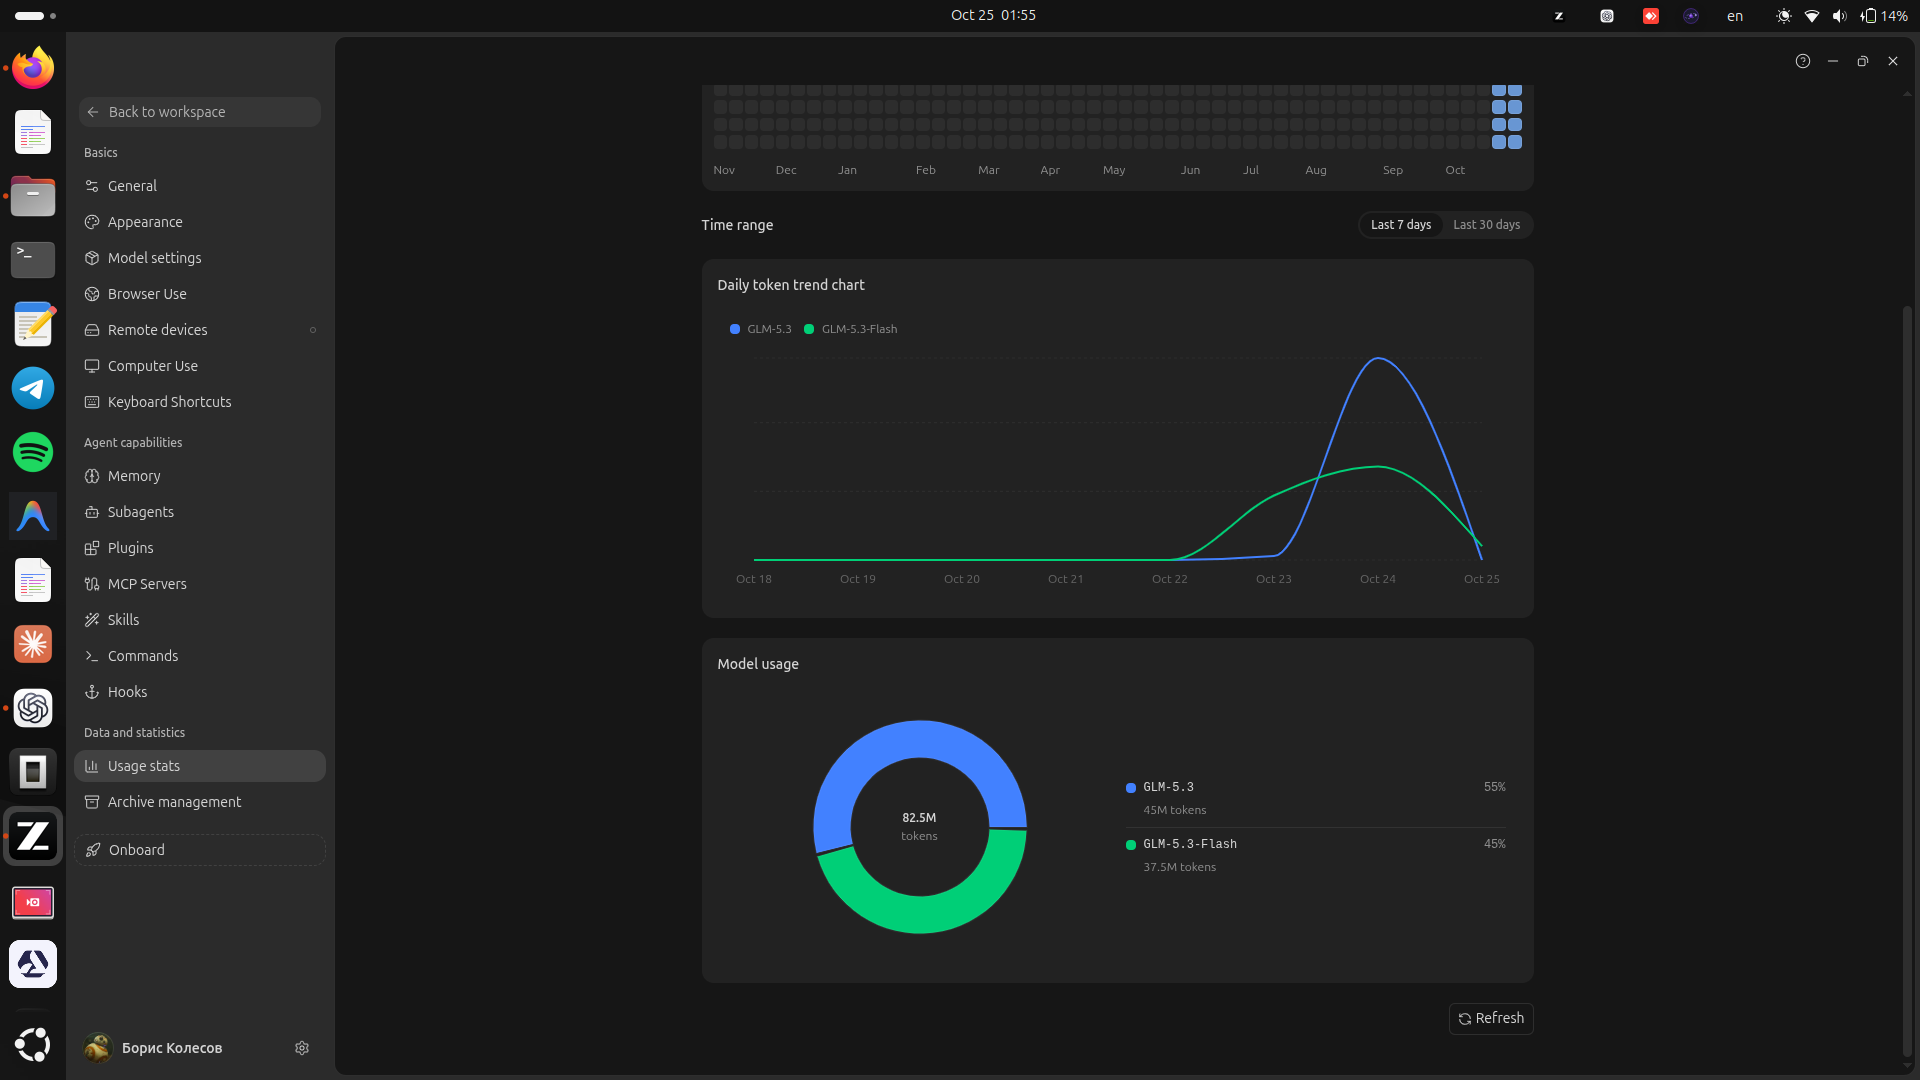
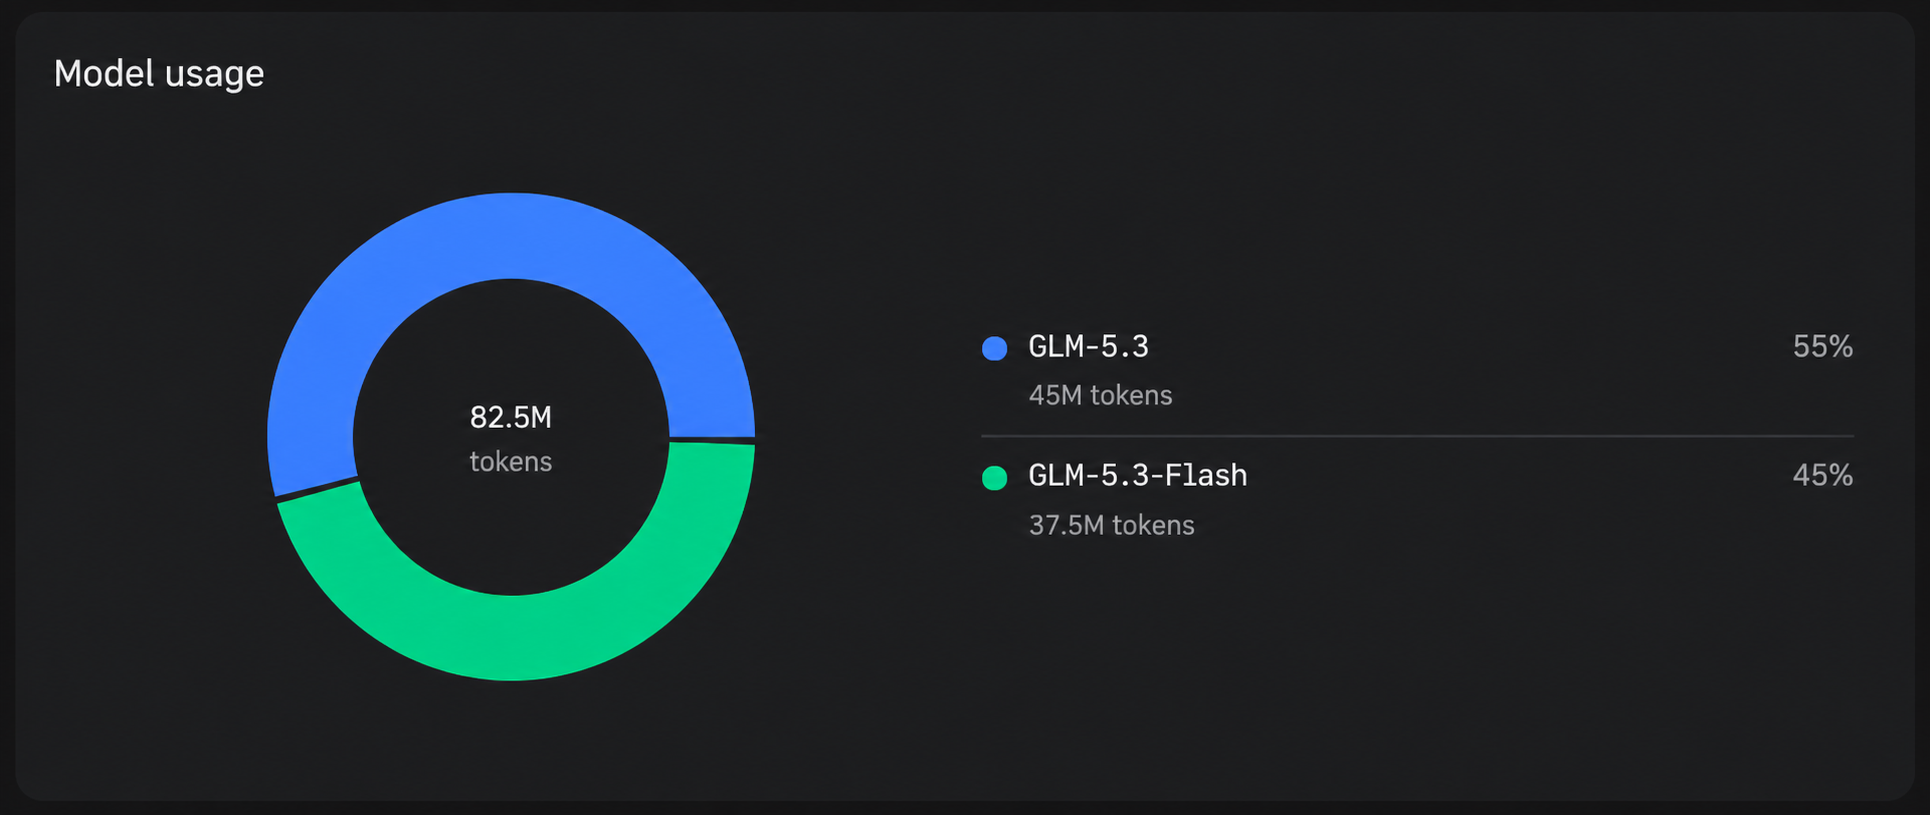
Update GLM token usage screenshot

diff --git a/app.js b/app.js
@@ -94,7 +94,7 @@
     }else if(kind==='parts')graphics.innerHTML=`<div class="parts-control">${parts.map((p,i)=>button(p[0],'part',i,i===state.partIndex)).join('')}</div><div class="parts-label"><b>${parts[state.partIndex][0]}</b><br>${parts[state.partIndex][1]}</div>`;
     else if(kind==='sandbox')graphics.innerHTML=`<div class="sandbox-controls"><label for="slope">Условный уклон <span id="slope-label">${state.sandboxSlope}°</span></label><input id="slope" type="range" min="0" max="20" value="${state.sandboxSlope}" step="1" data-slider="slope"><label for="load">Условная загрузка <span id="load-label">${state.sandboxLoad}%</span></label><input id="load" type="range" min="0" max="100" value="${state.sandboxLoad}" step="5" data-slider="load"><div class="panel-action">${button(state.sandboxObstacle?'Убрать препятствие':'Добавить препятствие','obstacle',0,state.sandboxObstacle)}${button(state.sandboxOpened?'Закрыть условный улей':'Открыть условный улей','openhive',0,state.sandboxOpened)}</div><div class="sandbox-note">Это управляющие параметры рисунка. Расчёта физики и грузоподъёмности здесь нет.</div></div>`;
     else if(kind==='gates')graphics.innerHTML=`<div class="gates-caption"><div class="micro-label">GATE ${state.gateIndex+1} / 5</div><h3>${gates[state.gateIndex][0]}</h3><p>${gates[state.gateIndex][1]}</p></div><div class="gates">${gates.map((g,i)=>`<button class="gate${i===state.gateIndex?' active':''}" data-action="gate" data-value="${i}"><span class="gate-index">0${i+1}</span><span class="gate-title">${g[0]}</span></button>`).join('')}</div>`;
-    else if(kind==='research')graphics.innerHTML=`<div class="research-metrics"><div class="research-metric"><strong>63</strong><span>ресурса и проекта</span></div><div class="research-metric"><strong>42</strong><span>записи с источниками</span></div><div class="research-metric"><strong>20</strong><span>функций в матрице</span></div><div class="research-metric self-estimate"><strong>≈60M</strong><span>AI-токенов · моя оценка</span></div></div><div class="glm-proof"><div class="glm-image-cut"><img src="./assets/glm-usage-2026-10-25.png" alt="Скрин статистики GLM с суммарным расходом 82,5 млн токенов за последние семь дней" /></div><div class="glm-caption">GLM · 82,5 млн за 7 дней · все задачи аккаунта</div></div><div class="stack-list"><span class="tech-tag">ROS 2 Jazzy</span><span class="tech-tag">Gazebo Harmonic</span><span class="tech-tag">Nav2</span><span class="tech-tag">MoveIt 2</span><span class="tech-tag">SQLite</span><span class="tech-tag">CAD</span></div>${state.glmEvidenceOpen?'<div class="glm-zoom"><img src="./assets/glm-usage-2026-10-25.png" alt="Полный оригинальный скрин статистики расхода токенов в GLM"/><div class="glm-zoom-note">82,5 млн токенов за 7 дней — общий расход. Не является подтверждением 60 млн именно на WALL-E.</div></div>':''}`;
+    else if(kind==='research')graphics.innerHTML=`<div class="research-metrics"><div class="research-metric"><strong>63</strong><span>ресурса и проекта</span></div><div class="research-metric"><strong>42</strong><span>записи с источниками</span></div><div class="research-metric"><strong>20</strong><span>функций в матрице</span></div><div class="research-metric self-estimate"><strong>≈60M</strong><span>AI-токенов · моя оценка</span></div></div><div class="glm-proof"><div class="glm-image-cut"><img src="./assets/glm-usage-2026-10-25.png?v=20261025b" alt="Скрин статистики GLM с суммарным расходом 82,5 млн токенов за последние семь дней" /></div><div class="glm-caption">GLM · 82,5 млн за 7 дней · все задачи аккаунта</div></div><div class="stack-list"><span class="tech-tag">ROS 2 Jazzy</span><span class="tech-tag">Gazebo Harmonic</span><span class="tech-tag">Nav2</span><span class="tech-tag">MoveIt 2</span><span class="tech-tag">SQLite</span><span class="tech-tag">CAD</span></div>${state.glmEvidenceOpen?'<div class="glm-zoom"><img src="./assets/glm-usage-2026-10-25.png?v=20261025b" alt="Полный оригинальный скрин статистики расхода токенов в GLM"/><div class="glm-zoom-note">82,5 млн токенов за 7 дней — общий расход. Не является подтверждением 60 млн именно на WALL-E.</div></div>':''}`;
     else if(kind==='roadmap')graphics.innerHTML=`<div class="roadmap-detail">${roadmap[state.roadmapIndex][2]}</div><div class="roadmap">${roadmap.map((g,i)=>`<button class="roadmap-step${i===state.roadmapIndex?' active':''}" data-action="roadmap" data-value="${i}"><strong>${g[0]}</strong><span>${g[1]}</span></button>`).join('')}</div>`;
     else if(kind==='needs')graphics.innerHTML=`<div class="needs-list">${needs.map((n,i)=>`<button class="need${i===state.needIndex?' selected':''}" data-action="need" data-value="${i}"><span class="need-number">${n[0]}</span><span class="need-title">${n[1]}</span><span class="need-copy">${n[2]}</span></button>`).join('')}</div>`;
     else if(kind==='sources')graphics.innerHTML=`<div class="source-list">${sources.map(src=>`<a href="${src[1]}" target="_blank" rel="noopener noreferrer"><strong>${src[0]}</strong><span>${src[1]}</span></a>`).join('')}</div>`;

diff --git a/styles.css b/styles.css
@@ -34,3 +34,69 @@
 .glm-zoom img{display:block;width:100%;height:calc(100% - 46px);object-fit:contain;min-height:0}.glm-zoom-note{font-size:12px;line-height:1.35;text-align:center;color:#f0dbab}
 @media(max-width:1000px){.about-stage{left:48%;right:2%}.about-number{font-size:clamp(94px,14vw,180px)}.about-name{font-size:clamp(27px,4vw,50px)}.research-metrics{gap:10px}.research-metric strong{font-size:clamp(47px,5.5vw,84px)}.glm-proof{left:48%}.glm-zoom{left:45%}}
 @media(max-width:720px){.about-stage{left:6%;right:6%;top:53%;bottom:calc(var(--bottom) + 10%)}.about-kicker{font-size:9px}.about-number{font-size:clamp(85px,25vw,150px)}.about-number span{font-size:20px}.about-name{font-size:clamp(24px,9vw,48px);margin-top:7px}.about-lines{gap:5px;margin-top:12px}.about-lines span{font-size:8px;padding-top:6px}.research-metrics{top:53%;display:grid;grid-template-columns:repeat(4,minmax(0,1fr));gap:4px}.research-metric strong,.research-metric.self-estimate strong{font-size:clamp(27px,8vw,45px)}.research-metric span{font-size:8px}.glm-proof{left:4%;right:4%;top:65%;max-height:16%}.glm-image-cut{max-height:13vh;aspect-ratio:2.9}.glm-caption{font-size:8px}.glm-zoom{left:2%;right:2%;top:47%;bottom:calc(var(--bottom) + 6px);padding:6px}.glm-zoom-note{font-size:9px}}
+
+
+/* WALL_E_GLM_SCREENSHOT_UPDATE_20261025 */
+.glm-proof {
+  position: absolute;
+  left: 45%;
+  right: 4%;
+  top: 47%;
+  max-height: 34%;
+  display: flex;
+  flex-direction: column;
+  gap: 6px;
+  pointer-events: none;
+}
+
+.glm-image-cut {
+  position: relative;
+  width: 100%;
+  aspect-ratio: 1931 / 815;
+  max-height: 29vh;
+  overflow: hidden;
+  background: #1c1c1c;
+  border: 1px solid rgba(159, 201, 172, .25);
+  border-radius: 12px;
+}
+
+.glm-image-cut img {
+  position: static !important;
+  display: block !important;
+  width: 100% !important;
+  height: 100% !important;
+  max-width: 100% !important;
+  left: auto !important;
+  top: auto !important;
+  object-fit: contain !important;
+}
+
+.glm-caption {
+  text-align: right;
+  color: #a8beb3;
+  font-size: 10px;
+}
+
+@media (max-width: 1000px) {
+  .glm-proof {
+    left: 48%;
+    right: 2%;
+  }
+}
+
+@media (max-width: 720px) {
+  .glm-proof {
+    left: 4%;
+    right: 4%;
+    top: 67%;
+    max-height: 17%;
+  }
+
+  .glm-image-cut {
+    max-height: 15vh;
+  }
+
+  .glm-caption {
+    font-size: 8px;
+  }
+}
